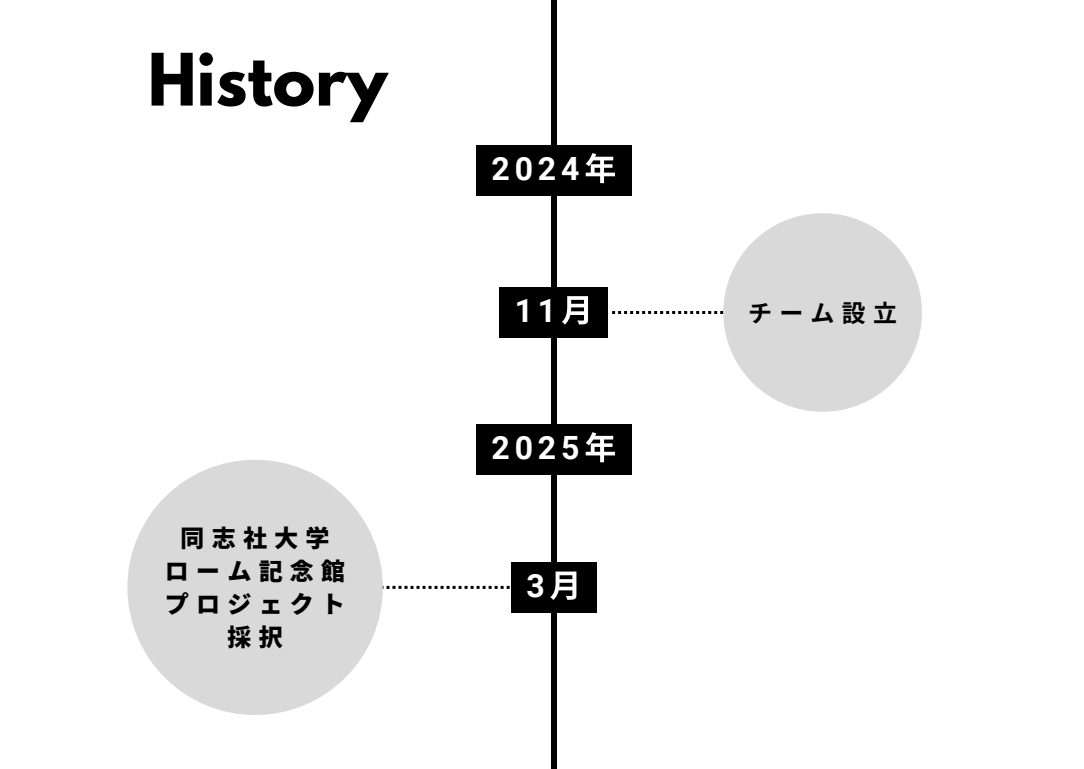
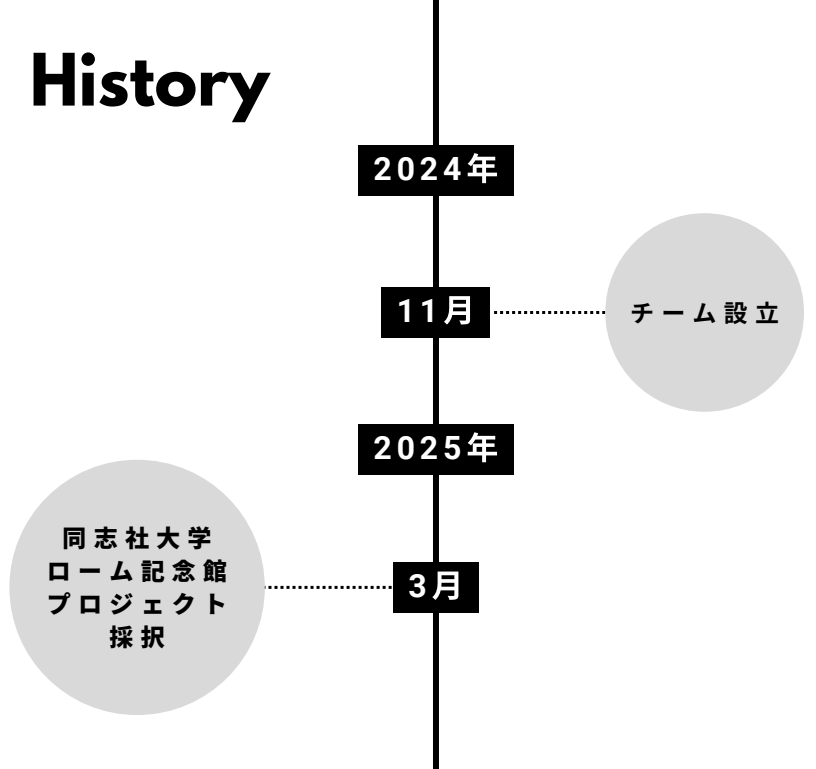
feat: remake about section

diff --git a/components/section/home/AboutSection.tsx b/components/section/home/AboutSection.tsx
@@ -1,6 +1,6 @@
-
-import { TextReveal } from "@/components/unlumen-ui/text-reveal";
 import Image from "next/image";
+import Link from "next/link";
+import { FaArrowRightToBracket } from "react-icons/fa6";
 
 const AboutSection = () => {
   return (
@@ -8,44 +8,90 @@ const AboutSection = () => {
       id="about"
       className="py-8 px-6 md:mt-10 md:px-15">
       <h2 className="text-2xl md:text-3xl font-bold text-gray-600 mb-4 md:mb-6">
-        <TextReveal as="span" text="About"  />
+        About
       </h2>
-      <div className="container mx-auto md:flex md:justify-around mb-18">
-        <div className="space-y-2 mb-10 md:mb-0 md:w-1/3">
-          <h3 className="text-3xl md:text-6xl font-semibold mb-5">
-            <TextReveal as="span" className="block leading-tight" text="夢を夢で" startDelay={0.2} />
-            <TextReveal as="span" className="block leading-tight" text="終わらせない" startDelay={0.5} />
-          </h3>
-          <p className="text-sm md:text-lg text-muted-foreground">
-            <TextReveal as="span" text="AIの力で、すべての学生が自分の可能性を信じ、それを実現するための手段を得られる社会へ" startDelay={0.7} />
-          </p>
+      <div className="container mx-auto md:flex md:flex-col md:items-center">
+        <h3 className="text-3xl md:text-6xl font-semibold md:mb-4">
+          誰もが夢を持ち、自由に追いかけられる世界
+        </h3>
+        <p className="text-lg md:text-xl font-bold text-gray-700 mb-4 md:mb-6">
+          <span className="block leading-tight">- DREAM FREELY, CHASE BOLDLY -</span>
+        </p>
+        <div className="container mx-auto flex flex-col-reverse gap-10 my-10 md:flex-row md:justify-around md:mb-18">
+          <div className="mb-10 md:mb-0 md:w-1/2 space-y-6 md:space-y-0">
+            <p className="text-base md:text-xl text-muted-foreground leading-relaxed md:mt-10">
+              <span className="block mb-2 font-medium text-foreground">
+              「夢を持つことに、一体どんな価値があるのか？」
+              </span>
+
+              <span className="block mb-4">
+                私たちの答えは明確です．
+              </span>
+
+              <span className="block mb-4 font-semibold text-foreground">
+                夢とは，自分の可能性を具体的な
+                <span className="font-bold text-blue-500">「力」</span>
+                に変えるための「北極星」であり，人生という航海における「GPS」です．
+              </span>
+
+              <span className="block mb-2">
+                夢という目的地が定まった瞬間，
+                これまで
+                <span className="line-through opacity-70">やらされる苦行</span>
+                だった日々の学習は，
+                自分を強化し，目的地へ到達するための
+                <span className="font-semibold text-blue-500">
+                  先行投資（装備を整えるプロセス）
+                </span>
+                へと劇的にその意味を変えます．
+              </span>
+
+              <span className="block">
+                自分の可能性がどこに向かって解放されるべきか，
+                その
+                <span className="font-bold text-blue-500">「ベクトル」</span>
+                が決まること．
+                これこそが，夢を持つことの真の価値です．
+              </span>
+            </p>
+            <div className="flex">
+            <Link href="/about" className="ml-auto">
+              <div className="flex items-center gap-4 pb-2 border-b-2 border-blue-500 w-max group group-hover:border-blue-600 transition-colors">
+                <p className="font-medium">企業概要を見る</p>
+                <div className="bg-blue-500 text-white py-1.5 px-4 group-hover:bg-blue-600 group-hover:rounded transition-colors">
+                  <FaArrowRightToBracket className="w-3 h-3" />
+                </div>
+              </div>
+            </Link>
+          </div>
+          </div>
+          <Image src="/images/history.png" alt="History" width={600} height={400} className="w-full h-auto object-contain md:w-1/2 md:pl-8" />
         </div>
-        <Image src="/images/history.png" alt="History" width={600} height={400} className="w-full h-auto object-contain md:w-3/7 md:pl-8" />
       </div>
       <div>
         <dl className="flex flex-col md:flex-row md:items-center md:justify-around">
           <div className="text-center font-bold">
             <dt className="text-lg text-muted-foreground mb-1">
-              <TextReveal as="span" text="団体名" startDelay={0.2} />
+              団体名
             </dt>
             <dd className="text-3xl mb-6 md:mb-0">
-              <TextReveal as="span" text="Propositio AI" startDelay={0.5} />
+              Propositio AI
             </dd>
           </div>
           <div className="text-center font-bold">
             <dt className="text-lg text-muted-foreground mb-1">
-              <TextReveal as="span" text="設立年月" startDelay={0.2} />
+              設立年月
             </dt>
             <dd className="text-3xl mb-6 md:mb-0">
-              <TextReveal as="span" text="2024年11月" startDelay={0.5} />
+              2024年11月
             </dd>
           </div>
           <div className="text-center font-bold">
             <dt className="text-lg text-muted-foreground mb-1">
-              <TextReveal as="span" text="事業内容" startDelay={0.2} />
+              事業内容
             </dt>
             <dd className="text-3xl mb-6 md:mb-0">
-              <TextReveal as="span" text="EdTech事業" startDelay={0.5} />
+              EdTech事業
             </dd>
           </div>
         </dl>
